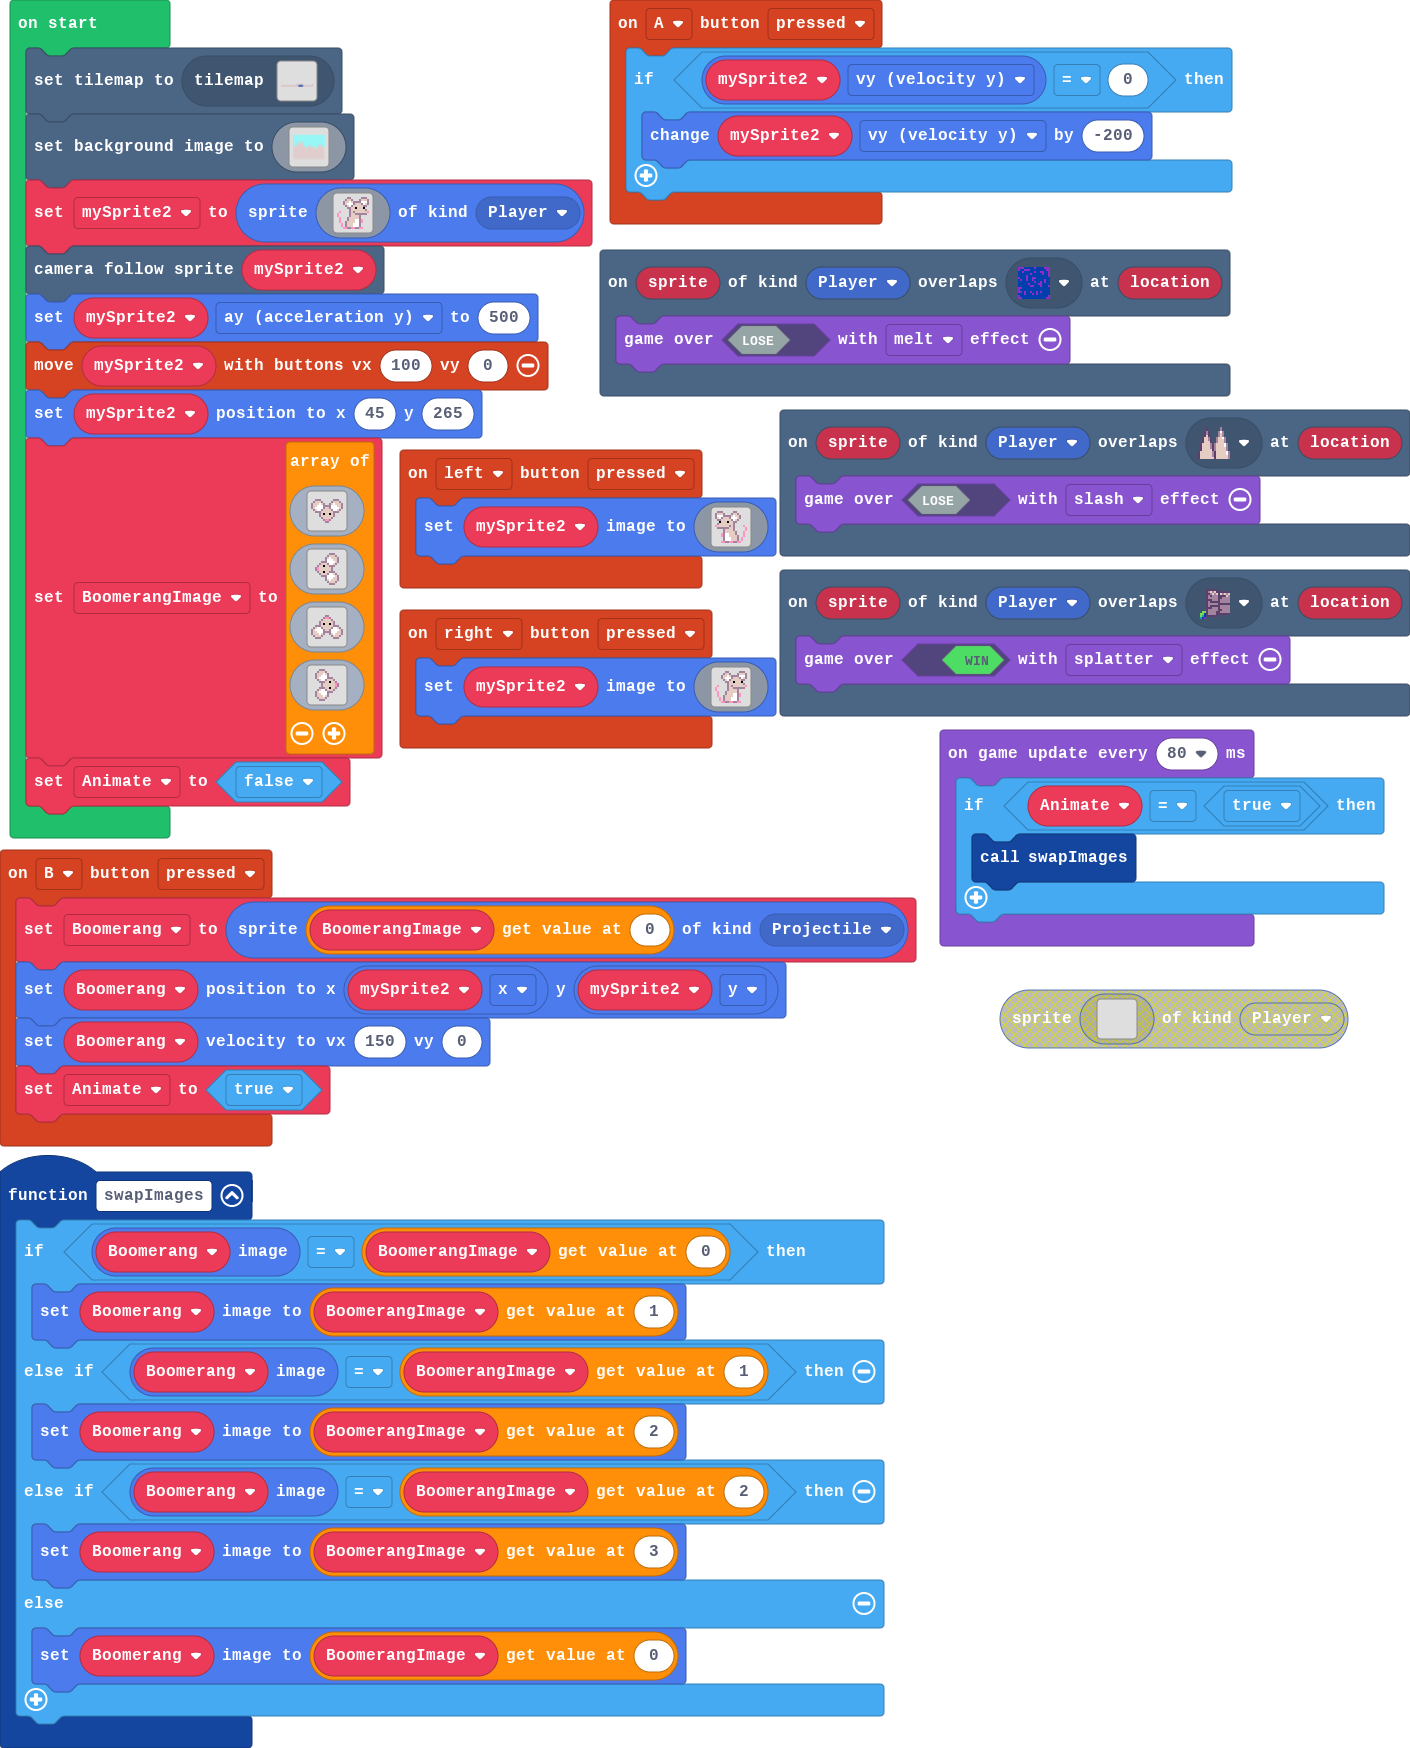
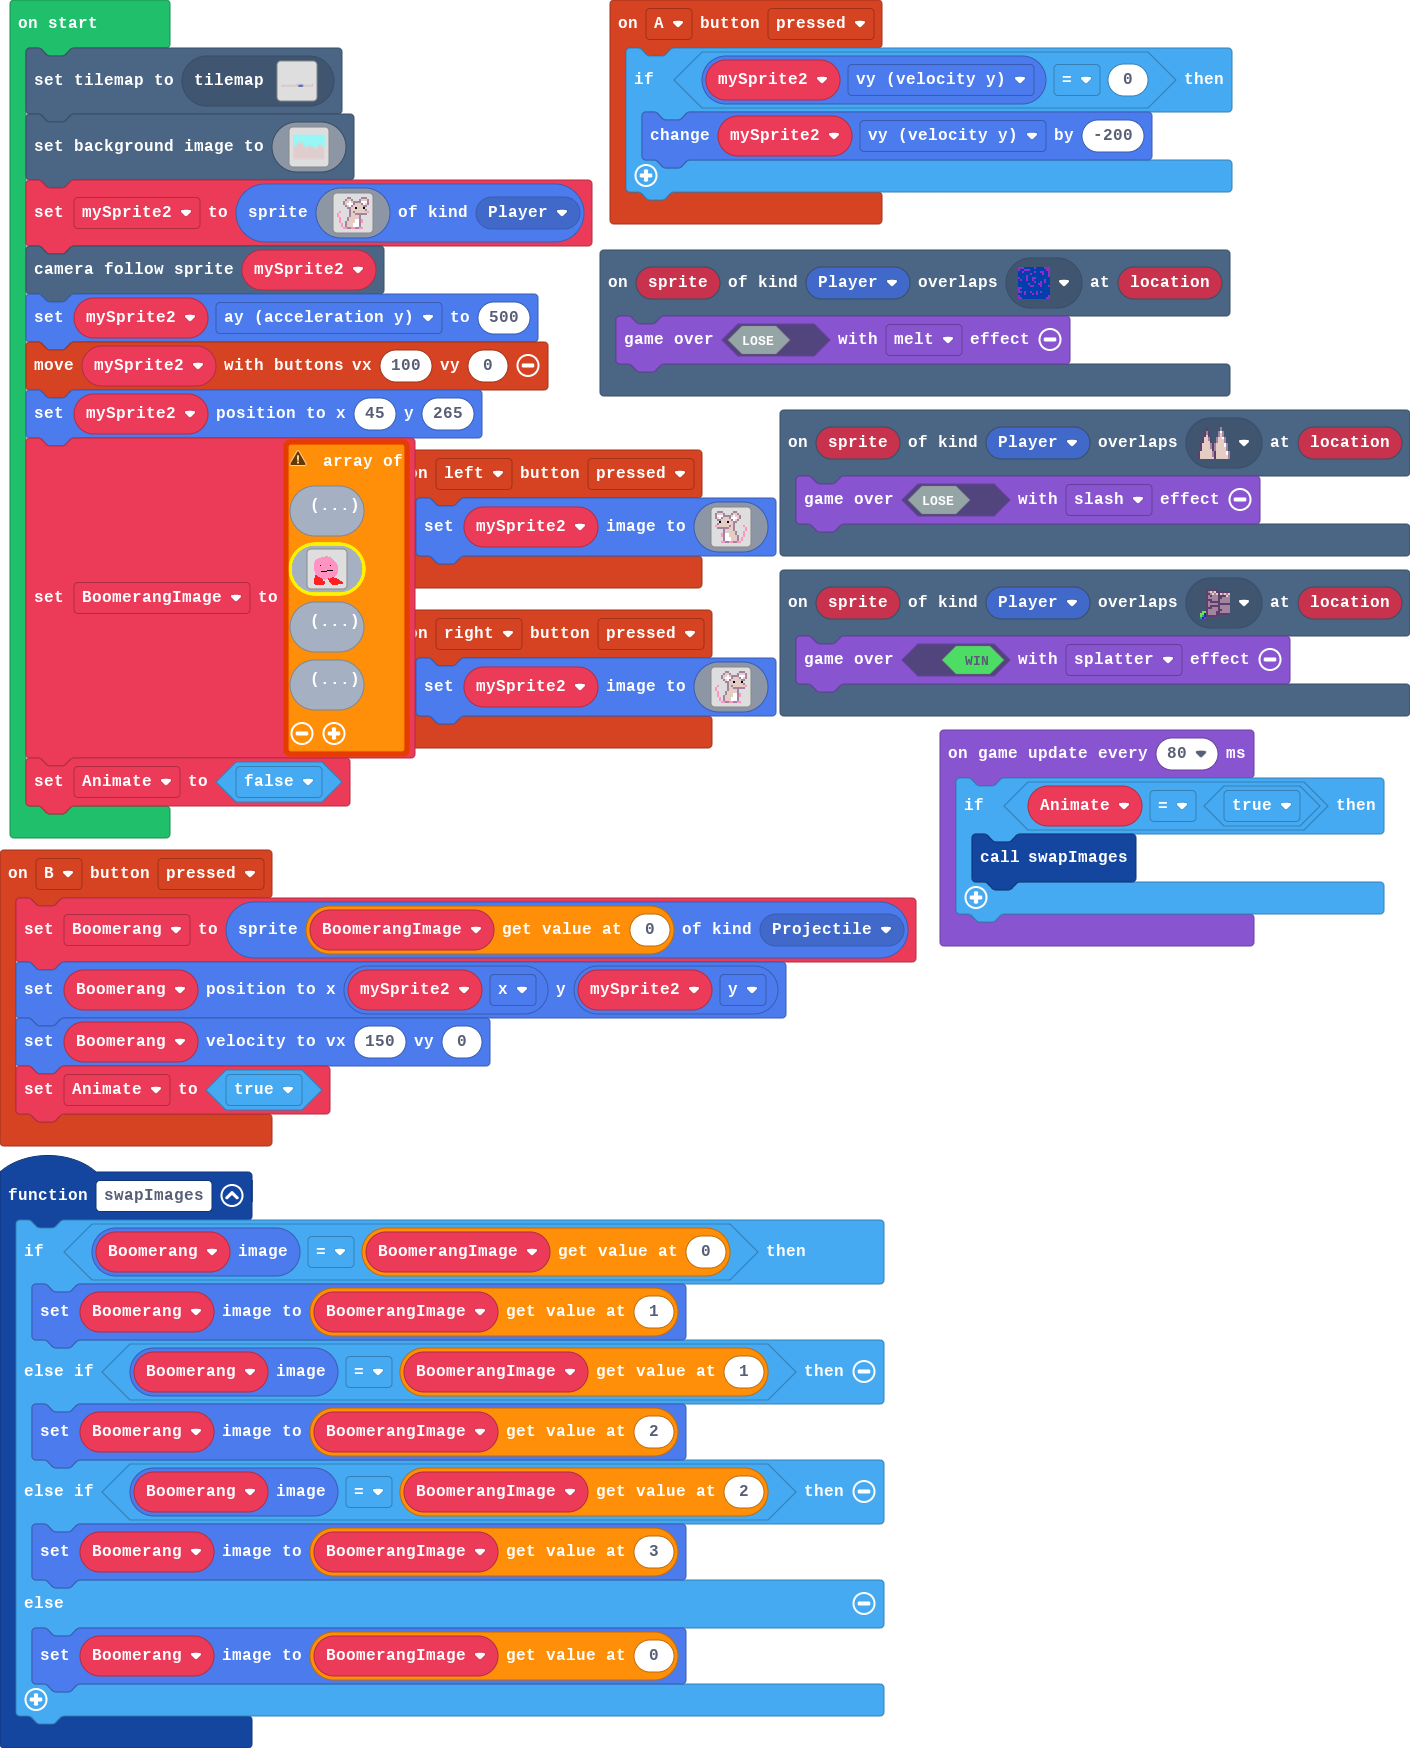
Update main.blocks, main.ts, tilemap.g.jres, tilemap.g.ts, images.g.jres, images.g.ts

Changed region(s): [[0.1872, 0.2471, 0.3121, 0.4325], [0.6865, 0.5561, 0.9674, 0.6178]]

diff --git a/images.g.ts b/images.g.ts
@@ -41,81 +41,40 @@ b d 1 b d d d b 1 1 1 d b . . .
 . . . . b 1 1 1 d d d b . 3 . . 
 . . . 3 3 b b 3 3 b b 3 3 . . . 
 `;
-            case "image5":
-            case "Ratarang1":return img`
-. . . . . . . . . . . . . . . . 
-. . . . . . . . . . . . . . . . 
-. . b b b . . . . . . b b b . . 
-. b d d d b . . . . b d d d b . 
-b d d d 1 d b . . b d 1 d d d b 
-b d d 1 1 1 b b b b 1 1 1 d d b 
-b d 1 1 1 1 b d d b 1 1 1 1 d b 
-. b d 1 1 b d d d d b 1 1 d b . 
-. . b b b d d d d d d b b b . . 
-. . . . b d f d d f d b . . . . 
-. . . . b d d d d d d b . . . . 
-. . . . . b d d d d b . . . . . 
-. . . . . . b 3 3 b . . . . . . 
-. . . . . . . b b . . . . . . . 
-. . . . . . . . . . . . . . . . 
-. . . . . . . . . . . . . . . . 
-`;
             case "image3":
-            case "Ratarang2":return img`
-. . . . . . . . . b b b . . . . 
-. . . . . . . . b d d d b . . . 
-. . . . . . . b d 1 d d d b . . 
-. . . . . . . b 1 1 1 d d b . . 
-. . . . . b b b 1 1 1 1 d b . . 
-. . . . b d d d b 1 1 d b . . . 
-. . . b d d f d d b b b . . . . 
-. . b 3 d d d d d d b . . . . . 
-. . b 3 d d d d d d b . . . . . 
-. . . b d d f d d b b b . . . . 
-. . . . b d d d b 1 1 d b . . . 
-. . . . . b b b 1 1 1 1 d b . . 
-. . . . . . . b 1 1 1 d d b . . 
-. . . . . . . b d 1 d d d b . . 
-. . . . . . . . b d d d b . . . 
-. . . . . . . . . b b b . . . . 
-`;
-            case "image4":
-            case "Ratarang3":return img`
-. . . . . . . . . . . . . . . . 
-. . . . . . . . . . . . . . . . 
-. . . . . . . b b . . . . . . . 
-. . . . . . b 3 3 b . . . . . . 
-. . . . . b d d d d b . . . . . 
-. . . . b d d d d d d b . . . . 
-. . . . b d f d d f d b . . . . 
-. . b b b d d d d d d b b b . . 
-. b d 1 1 b d d d d b 1 1 d b . 
-b d 1 1 1 1 b d d b 1 1 1 1 d b 
-b d d 1 1 1 b b b b 1 1 1 d d b 
-b d d d 1 d b . . b d 1 d d d b 
-. b d d d b . . . . b d d d b . 
-. . b b b . . . . . . b b b . . 
-. . . . . . . . . . . . . . . . 
-. . . . . . . . . . . . . . . . 
-`;
-            case "image6":
-            case "Ratarang4":return img`
-. . . . b b b . . . . . . . . . 
-. . . b d d d b . . . . . . . . 
-. . b d d d 1 d b . . . . . . . 
-. . b d d 1 1 1 b . . . . . . . 
-. . b d 1 1 1 1 b b b . . . . . 
-. . . b d 1 1 b d d d b . . . . 
-. . . . b b b d d f d d b . . . 
-. . . . . b d d d d d d 3 b . . 
-. . . . . b d d d d d d 3 b . . 
-. . . . b b b d d f d d b . . . 
-. . . b d 1 1 b d d d b . . . . 
-. . b d 1 1 1 1 b b b . . . . . 
-. . b d d 1 1 1 b . . . . . . . 
-. . b d d d 1 d b . . . . . . . 
-. . . b d d d b . . . . . . . . 
-. . . . b b b . . . . . . . . . 
+            case "myImage":return img`
+................................
+................................
+................................
+..............333...............
+..........3333333333............
+.......33333333333333...........
+.....33333333333333333..........
+....3333333333333333333.........
+....33333333333333333333........
+...3333333333333333333333.......
+...33333333333333333333333......
+...33333333333333333333333......
+...333333f333333333f3333333.....
+...333333333333333333333333.....
+...333333333333333333333333.....
+...333333333333333333333333.....
+...333333333333333333333333.....
+...3333333333333ffffff33333.....
+....333333ffffff33333333333.....
+....33333333333333333333333.....
+....3333333333333333333333......
+.....333333333333333333333......
+....223333333333333333333.......
+....22233333333333333333........
+....2222233333333333322.........
+...22222222333333232222222......
+...222222222.33..22222222222....
+...222222222......22222222222...
+...22222222222....2222222222222.
+...22222222222.....2222222222222
+...22222222222......222222222222
+....222222222........222222.....
 `;
         }
         return null;

diff --git a/tilemap.g.ts b/tilemap.g.ts
@@ -10,6 +10,8 @@ namespace myTiles {
     export const tile3 = image.ofBuffer(hex``);
     //% fixedInstance jres blockIdentity=images._tile
     export const tile4 = image.ofBuffer(hex``);
+    //% fixedInstance jres blockIdentity=images._tile
+    export const tile5 = image.ofBuffer(hex``);
 
     helpers._registerFactory("tilemap", function(name: string) {
         switch(helpers.stringTrim(name)) {
@@ -51,6 +53,8 @@ namespace myTiles {
             case "tile3":return tile3;
             case "Spikes":
             case "tile4":return tile4;
+            case "myTile":
+            case "tile5":return tile5;
         }
         return null;
     })

diff --git a/main.ts b/main.ts
@@ -168,10 +168,10 @@ mySprite2.ay = 500
 controller.moveSprite(mySprite2, 100, 0)
 mySprite2.setPosition(45, 265)
 BoomerangImage = [
-assets.image`Ratarang1`,
-assets.image`Ratarang2`,
-assets.image`Ratarang3`,
-assets.image`Ratarang4`
+,
+assets.image`myImage`,
+,
+
 ]
 Animate = false
 game.onUpdateInterval(80, function () {
